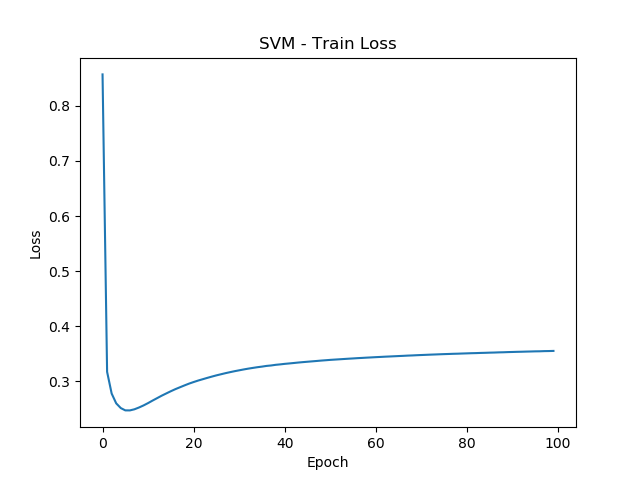
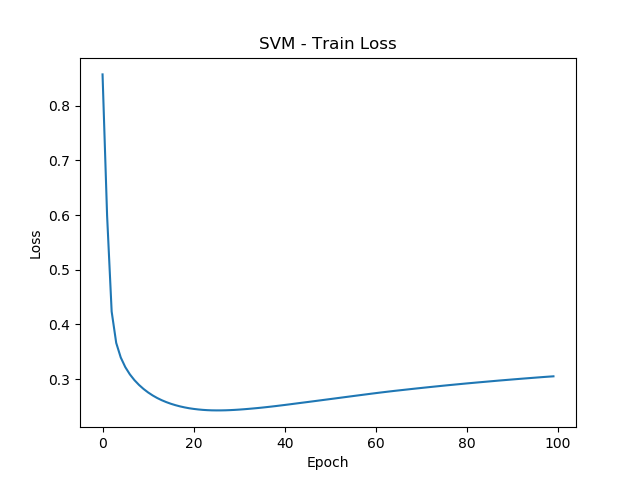
Report run

diff --git a/main.py b/main.py
@@ -61,6 +61,16 @@ def processData():
 
 
 #-------------------------
+# Majority Guess
+#-------------------------
+def majorGuess(t_test):
+    print('\n---- Majority Guess ----\n')
+
+    # Dermason - Class 7 - order 6
+    print('Test Accuracy: {}'.format(np.mean(t_test == 6)))
+
+
+#-------------------------
 # Softmax Regression
 #-------------------------
 def softmax(X_train, t_train, X_val, t_val, X_test, t_test):
@@ -116,7 +126,7 @@ def NN(X_train, t_train, X_val, t_val, X_test, t_test):
     history = NeuralNetwork.train(X_train, t_train, X_test, t_test)
 
     NN_train_losses = history.history['loss']
-    NN_valid_accs = history.history['val_acc']
+    NN_valid_accs = history.history['val_accuracy']
 
     utils.plot(NN_train_losses, "NN-TrainLoss", "NN - Train Loss", "Epoch", "Loss")
     utils.plot(NN_valid_accs, "NN-ValAcc", "NN - Validatino Accuracy", "Epoch", "Accuracy")
@@ -132,6 +142,9 @@ def main():
     # process data
 
     X_train, t_train, X_val, t_val, X_test, t_test = processData()
+
+    # Majority Guess
+    majorGuess(t_test)
 
     # train models
     softmax(X_train, t_train, X_val, t_val, X_test, t_test)

diff --git a/NeuralNetwork.py b/NeuralNetwork.py
@@ -16,7 +16,7 @@ def train(X_train, t_train, X_test, t_test):
     model.summary()
 
     model.compile(optimizer='sgd', loss='categorical_crossentropy', metrics='accuracy')
-    history = model.fit(X_train, t_train, batch_size=100, epochs=50, validation_split=0.1)
+    history = model.fit(X_train, t_train, batch_size=100, epochs=100, validation_split=0.1)
     loss, accuracy = model.evaluate(X_test, t_test)
 
     print('loss: {}'.format(loss))

diff --git a/softmaxRegression.py b/softmaxRegression.py
@@ -119,6 +119,6 @@ def train(X_train, y_train, X_val, t_val):
         if acc > acc_best:
             acc_best = acc
             epoch_best = epoch
-            W_best = np.append(w,b.reshape(1,N_class),axis = 0)
+            W_best = w#np.append(w,b.reshape(1,N_class),axis = 0)
         
     return epoch_best, acc_best, W_best, train_losses, valid_accs

diff --git a/SupportVectorMachine.py b/SupportVectorMachine.py
@@ -1,10 +1,10 @@
 import numpy as np
 
 N_class = 7
-reg_strength = 0.1      # regulization loss weight
+reg_strength = 0.1      # Regularization loss weight
 delta = 1       # right classify score
 
-alpha = 0.1      # learning rate
+alpha = 0.025      # learning rate
 MaxEpoch = 100        # Maximum epoch
 
 def train(X_train, t_train, X_val, t_val):
